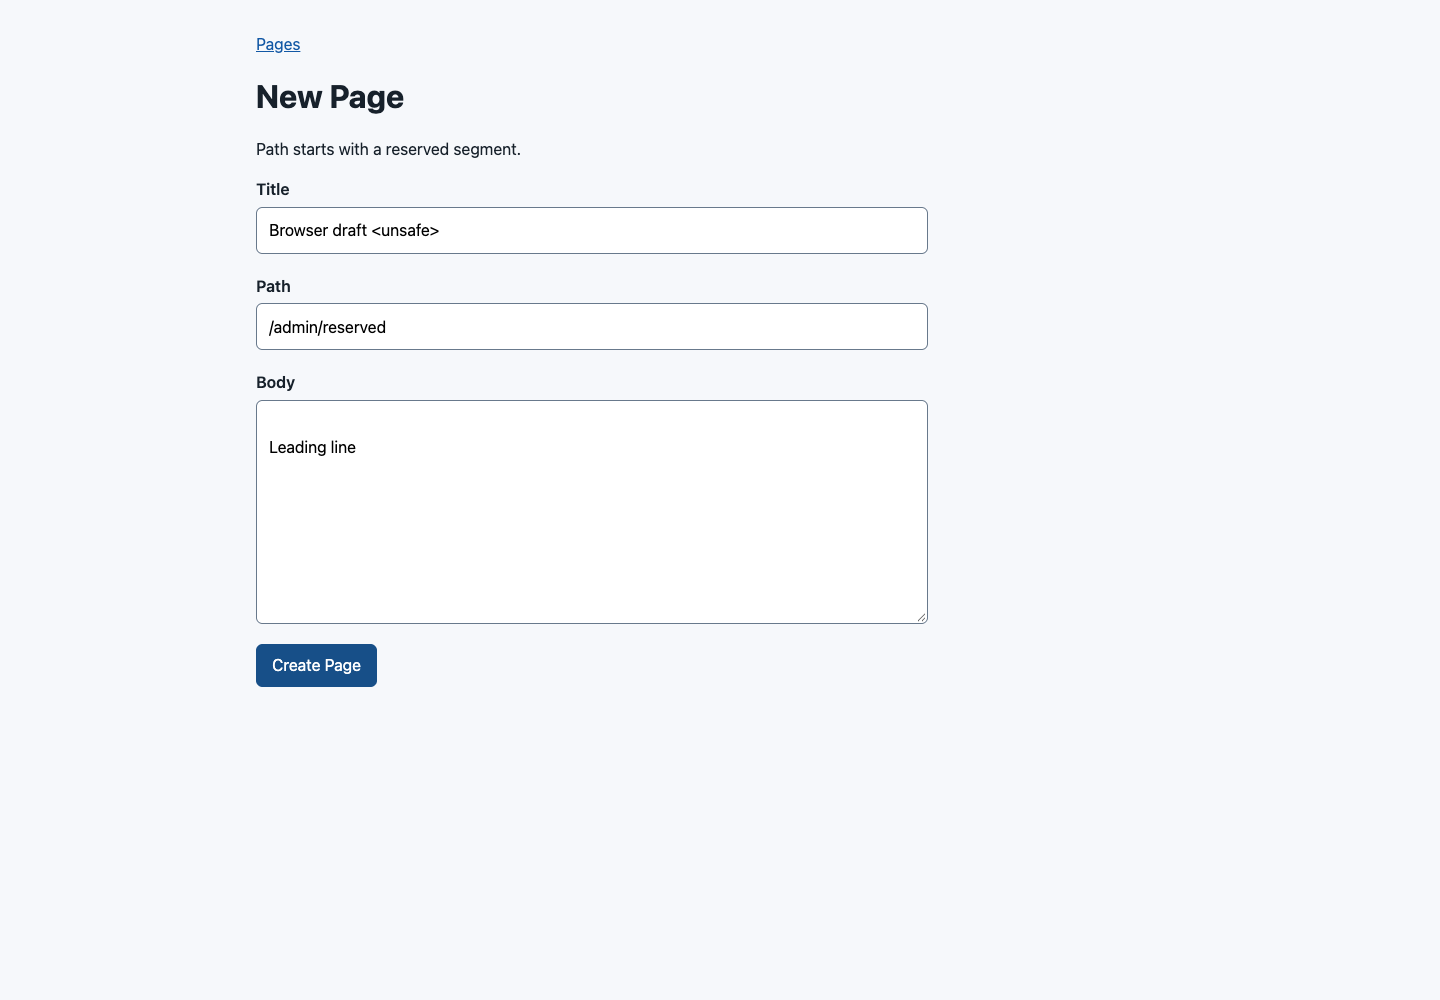
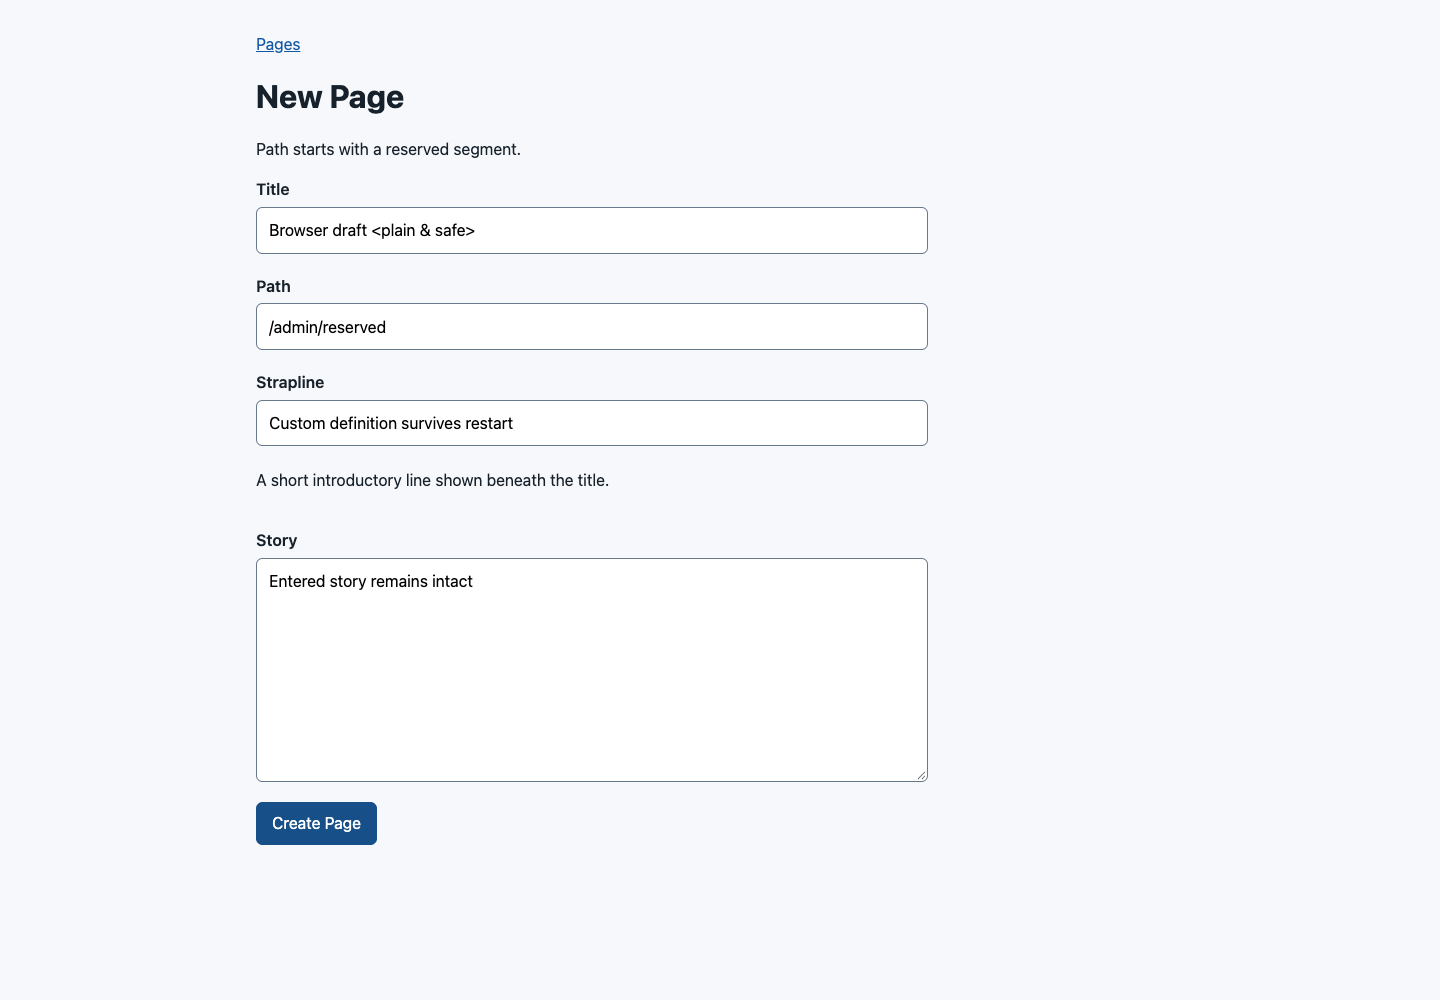
feat: enable validated Page draft creation and retain browser evidence for #6

diff --git a/internal/store/store.go b/internal/store/store.go
@@ -124,11 +124,11 @@ func Initialize(ctx context.Context, path, siteID string, at time.Time, example 
 
 // Open checks identity, integrity and supported versions without running DDL.
 func Open(ctx context.Context, path string) (*Store, error) {
-	store, _, err := open(ctx, path, true)
+	store, _, err := open(ctx, path, true, false)
 	return store, err
 }
 
-func open(ctx context.Context, path string, validateDocument bool) (*Store, ActiveConfig, error) {
+func open(ctx context.Context, path string, validateDocument, readOnly bool) (*Store, ActiveConfig, error) {
 	var active ActiveConfig
 	db, err := connect(path)
 	if err != nil {
@@ -172,8 +172,10 @@ func open(ctx context.Context, path string, validateDocument bool) (*Store, Acti
 			return nil, active, &StateError{4, "active configuration is invalid: " + err.Error()}
 		}
 	}
-	if _, err = db.ExecContext(ctx, "PRAGMA query_only=ON"); err != nil {
-		return nil, active, err
+	if readOnly {
+		if _, err = db.ExecContext(ctx, "PRAGMA query_only=ON"); err != nil {
+			return nil, active, err
+		}
 	}
 	ok = true
 	return &Store{db}, active, nil

diff --git a/internal/store/config_read.go b/internal/store/config_read.go
@@ -12,7 +12,7 @@ type ActiveConfig struct {
 // ReadActiveConfig applies the usual site identity, integrity and version
 // guards, then returns the stored document without validating its contents.
 func ReadActiveConfig(ctx context.Context, path string) (ActiveConfig, error) {
-	opened, active, err := open(ctx, path, false)
+	opened, active, err := open(ctx, path, false, true)
 	if err != nil {
 		return ActiveConfig{}, err
 	}
